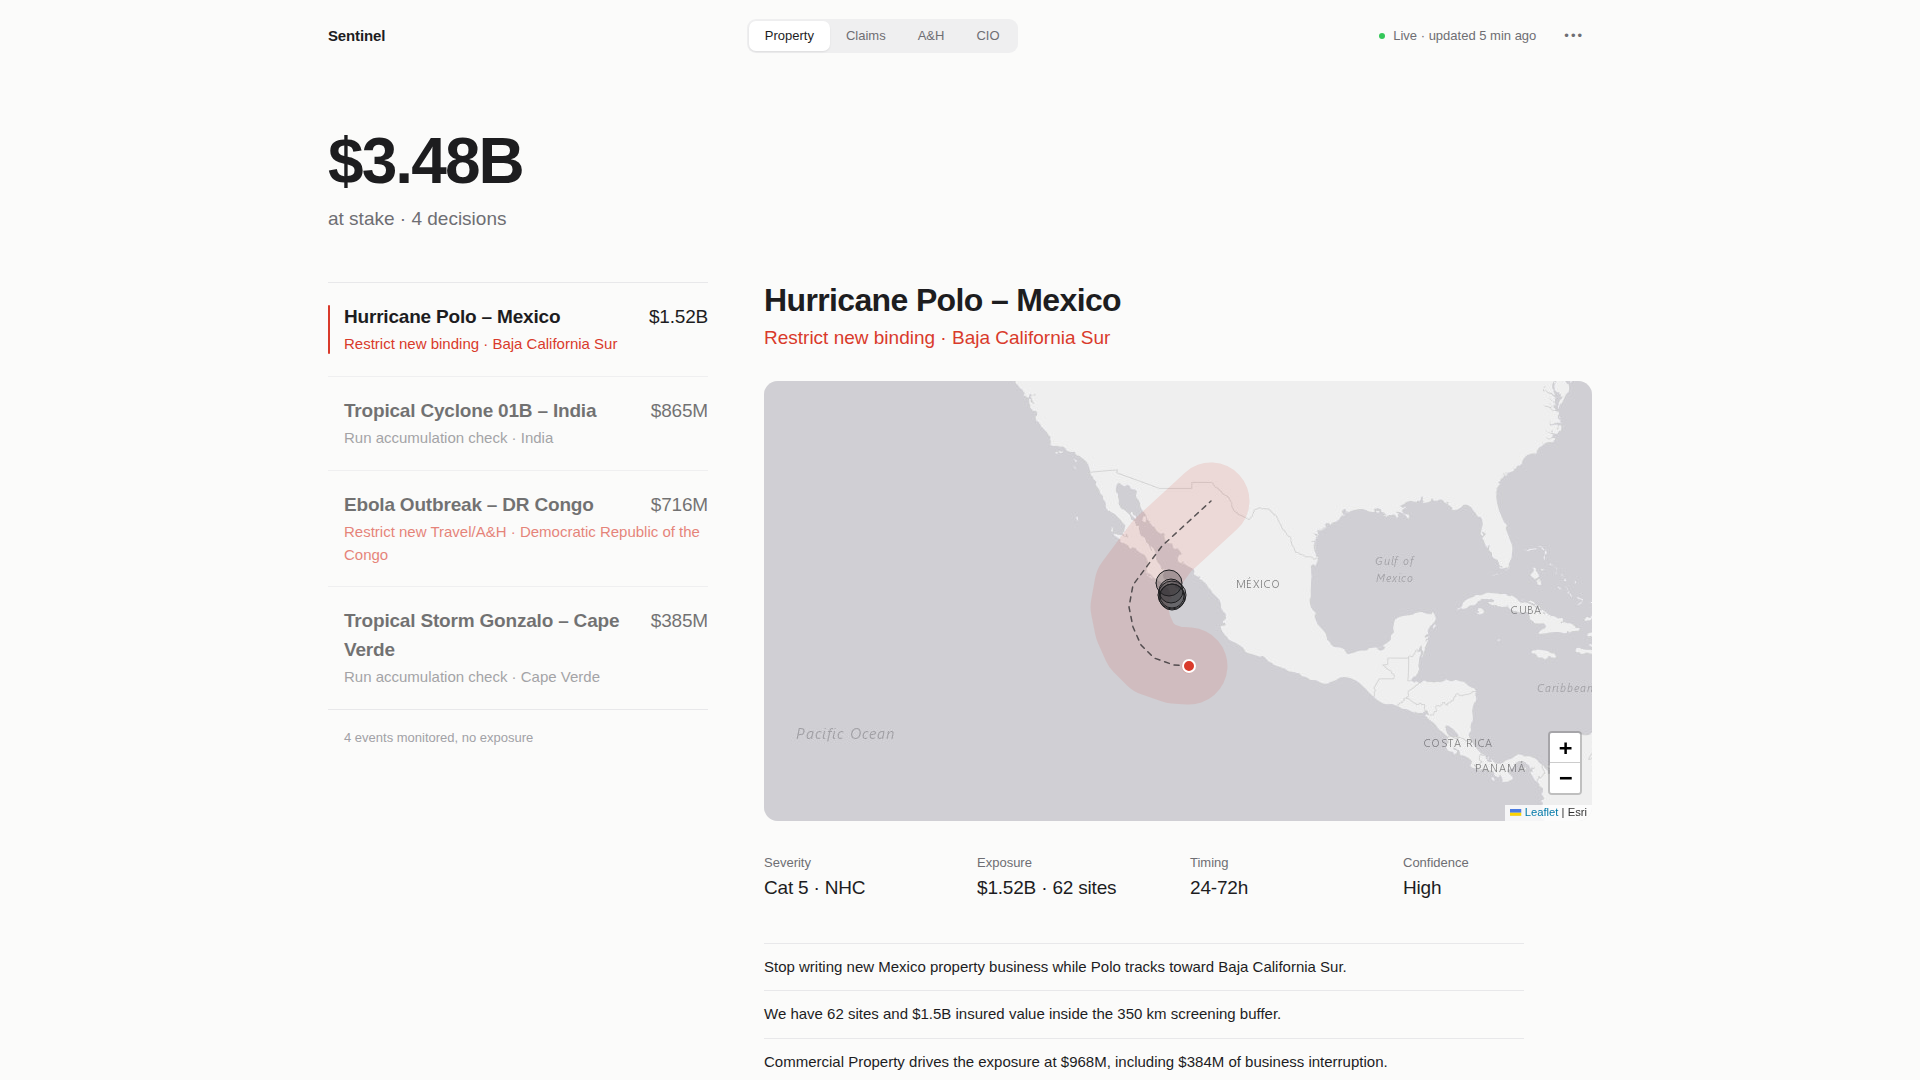
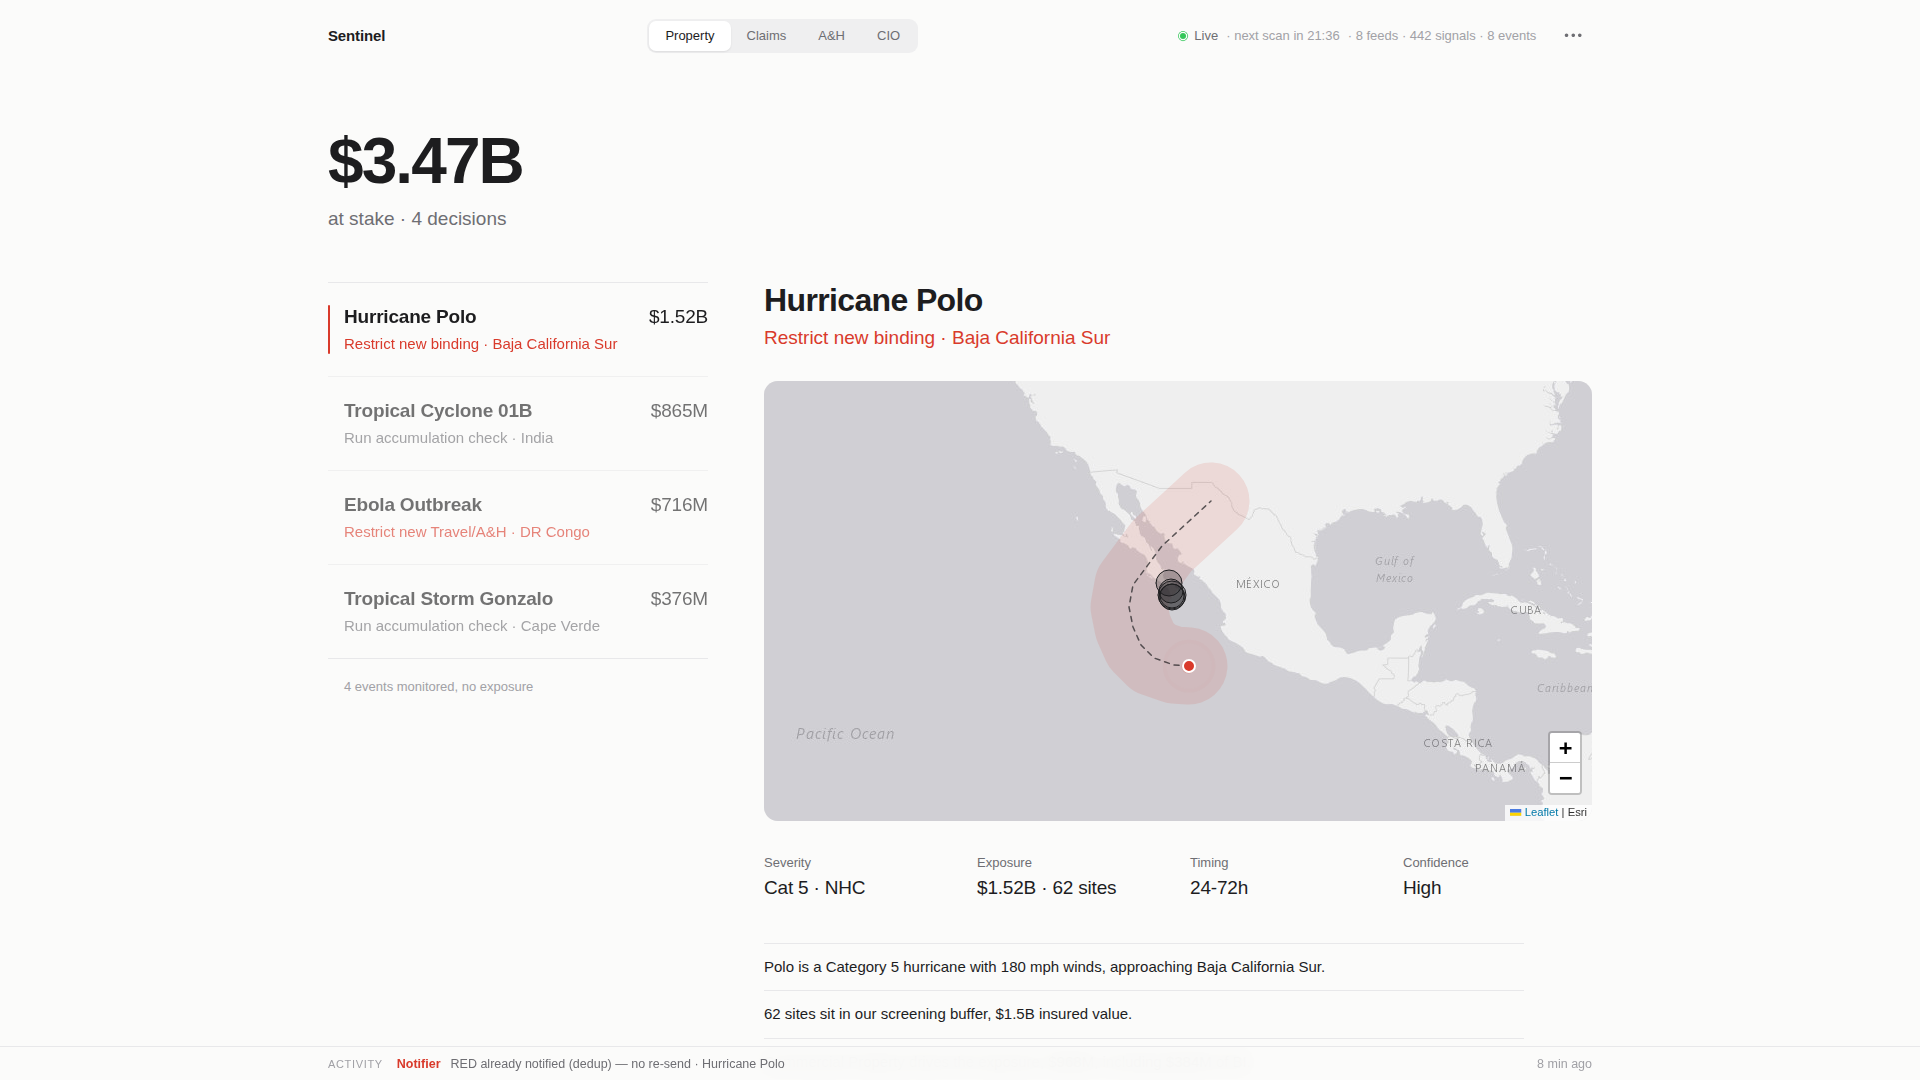
Deck slide 4: fit frame, one-line caption, fresh live product capture
Claude-Session: https://claude.ai/code/session_01FUCurQPFnAXBDdE5fg9zhM

diff --git a/sentinel/ui/deck/index.html b/sentinel/ui/deck/index.html
@@ -82,11 +82,11 @@
 
   /* 4 */
   .s4 { padding: 96px 140px; }
-  .s4 .frame { position: absolute; left: 50%; top: 150px; transform: translateX(-50%); width: 1520px; height: 855px; border-radius: 16px; overflow: hidden; background: #fff; box-shadow: 0 30px 80px rgba(0,0,0,.14), 0 0 0 1px rgba(0,0,0,.06); }
+  .s4 .frame { position: absolute; left: 50%; top: 140px; transform: translateX(-50%); width: 1480px; height: 833px; border-radius: 16px; overflow: hidden; background: #fff; box-shadow: 0 30px 80px rgba(0,0,0,.14), 0 0 0 1px rgba(0,0,0,.06); }
   .s4 .frame img { width: 100%; height: 100%; object-fit: cover; object-position: top; display: block; }
   .s4 .live { position: absolute; top: 50px; right: 140px; font-size: 18px; color: var(--ink-2); }
   .s4 .live i { display: inline-block; width: 7px; height: 7px; border-radius: 50%; background: #34c759; margin-right: 8px; vertical-align: 1px; }
-  .s4 .capt { position: absolute; left: 0; right: 0; top: 1030px; text-align: center; font-size: 20px; color: var(--ink-2); }
+  .s4 .capt { position: absolute; left: 140px; right: 140px; top: 1000px; text-align: center; font-size: 20px; line-height: 1.3; color: var(--ink-2); white-space: nowrap; overflow: hidden; text-overflow: ellipsis; }
 
   /* 5 */
   .rules { display: grid; grid-template-columns: repeat(3, 1fr); gap: 20px; margin-top: 80px; }
@@ -251,7 +251,7 @@ So we built that.">
   <div class="mark">Sentinel<small>Live · today · a real storm</small></div>
   <div class="live"><i></i>sentinel-chubb.vercel.app</div>
   <div class="frame"><img src="../screenshots/product.png" alt="Sentinel desk view: $3.48B at stake, 4 decisions; Hurricane Polo, restrict new binding, Baja California Sur"></div>
-  <div class="capt">Hurricane Polo, Cat 5, 180 mph · severity issued by NHC and copied, not generated · 62 sites / $1.52B of a synthetic demo book inside the 350 km screening buffer; none in the hurricane-force core · Action: restrict new binding · Baja California Sur</div>
+  <div class="capt">Live today · Hurricane Polo, Cat 5 (issued by NHC) · $1.52B and 62 sites of a synthetic book in the screening buffer · Action: restrict new binding, Baja California Sur</div>
 </section>
 
 <!-- 5 · TRUST -->

diff --git a/pitch/deck.html b/pitch/deck.html
@@ -82,11 +82,11 @@
 
   /* 4 */
   .s4 { padding: 96px 140px; }
-  .s4 .frame { position: absolute; left: 50%; top: 150px; transform: translateX(-50%); width: 1520px; height: 855px; border-radius: 16px; overflow: hidden; background: #fff; box-shadow: 0 30px 80px rgba(0,0,0,.14), 0 0 0 1px rgba(0,0,0,.06); }
+  .s4 .frame { position: absolute; left: 50%; top: 140px; transform: translateX(-50%); width: 1480px; height: 833px; border-radius: 16px; overflow: hidden; background: #fff; box-shadow: 0 30px 80px rgba(0,0,0,.14), 0 0 0 1px rgba(0,0,0,.06); }
   .s4 .frame img { width: 100%; height: 100%; object-fit: cover; object-position: top; display: block; }
   .s4 .live { position: absolute; top: 50px; right: 140px; font-size: 18px; color: var(--ink-2); }
   .s4 .live i { display: inline-block; width: 7px; height: 7px; border-radius: 50%; background: #34c759; margin-right: 8px; vertical-align: 1px; }
-  .s4 .capt { position: absolute; left: 0; right: 0; top: 1030px; text-align: center; font-size: 20px; color: var(--ink-2); }
+  .s4 .capt { position: absolute; left: 140px; right: 140px; top: 1000px; text-align: center; font-size: 20px; line-height: 1.3; color: var(--ink-2); white-space: nowrap; overflow: hidden; text-overflow: ellipsis; }
 
   /* 5 */
   .rules { display: grid; grid-template-columns: repeat(3, 1fr); gap: 20px; margin-top: 80px; }
@@ -251,7 +251,7 @@ So we built that.">
   <div class="mark">Sentinel<small>Live · today · a real storm</small></div>
   <div class="live"><i></i>sentinel-chubb.vercel.app</div>
   <div class="frame"><img src="slides/product.png" alt="Sentinel desk view: $3.48B at stake, 4 decisions; Hurricane Polo, restrict new binding, Baja California Sur"></div>
-  <div class="capt">Hurricane Polo, Cat 5, 180 mph · severity issued by NHC and copied, not generated · 62 sites / $1.52B of a synthetic demo book inside the 350 km screening buffer; none in the hurricane-force core · Action: restrict new binding · Baja California Sur</div>
+  <div class="capt">Live today · Hurricane Polo, Cat 5 (issued by NHC) · $1.52B and 62 sites of a synthetic book in the screening buffer · Action: restrict new binding, Baja California Sur</div>
 </section>
 
 <!-- 5 · TRUST -->
